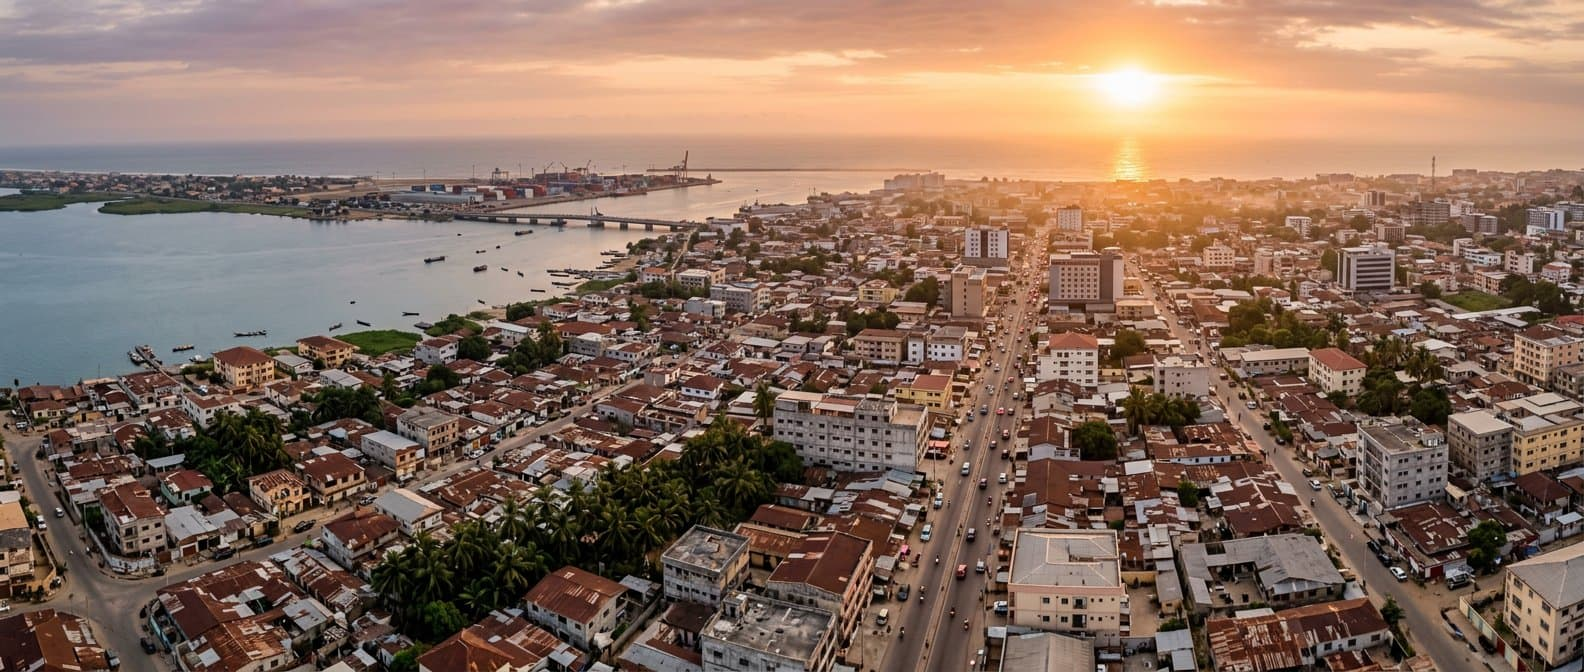
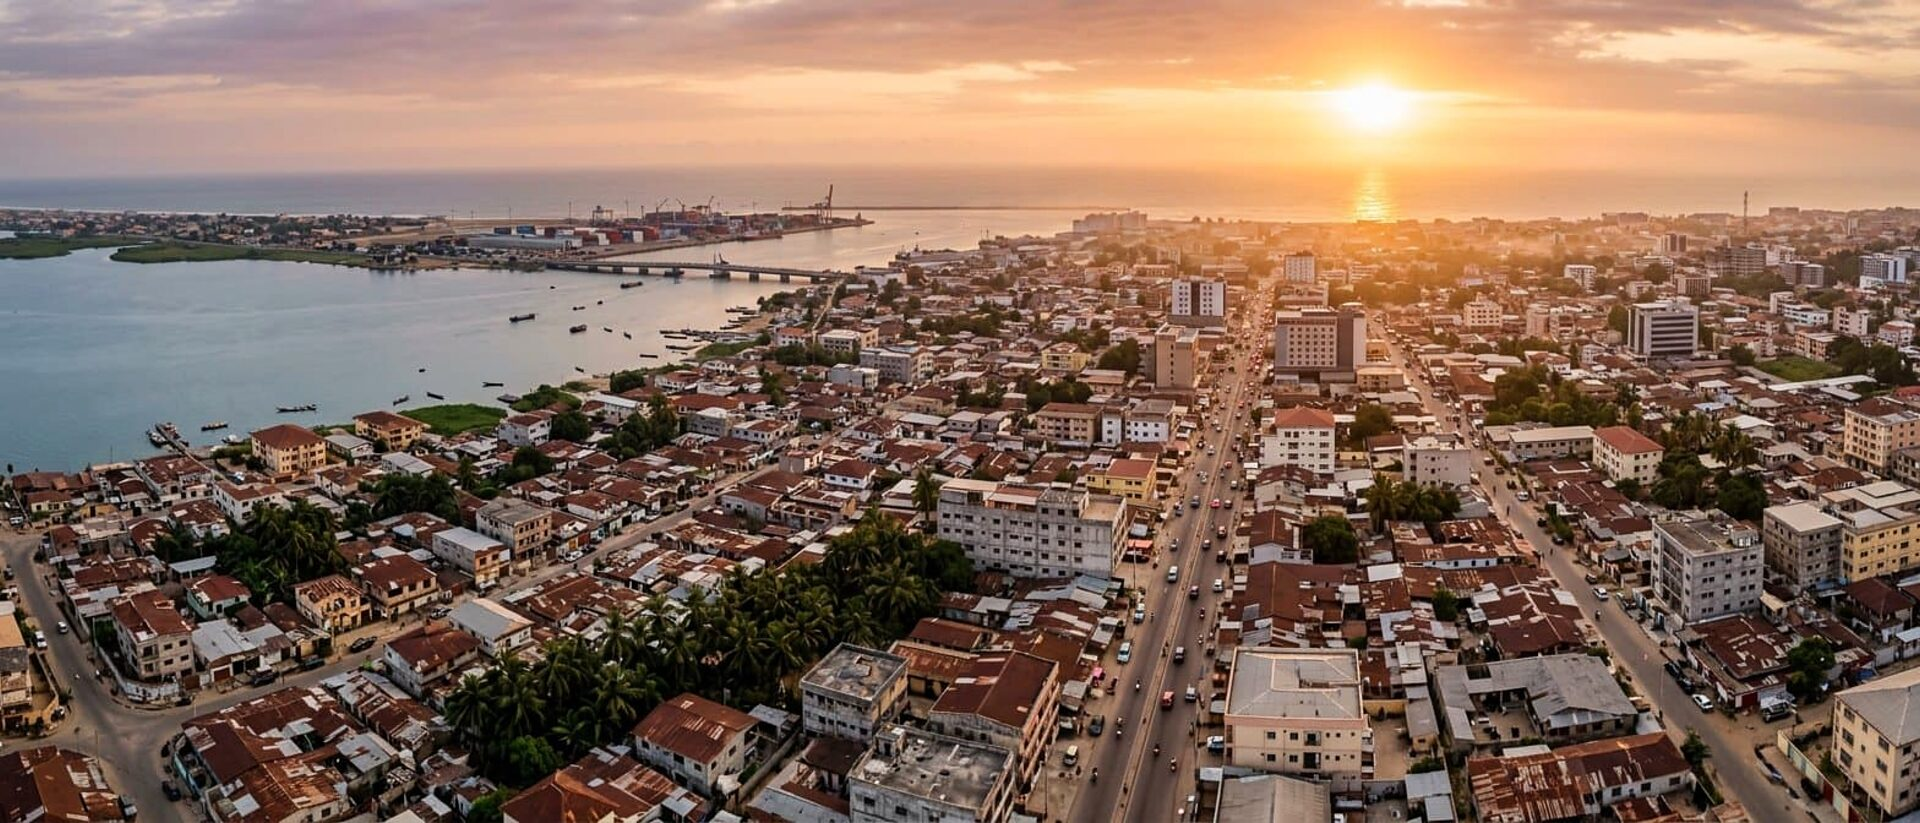
Hero : image nette 1920, couleurs chaudes, machine à écrire ; pastilles services retirées
Image : même photo, rééchantillonnée 1584x672 -> 1920x823 (recette
documentée), accentuation et contraste doux, LQIP régénéré. Sources
pleine résolution absentes : traitement appliqué au dérivé versionné.
Couleurs : voile renforcé (.35 -> .42), reflet terracotta subtil,
seconde ligne du titre en dégradé crème/ambre/terracotta (palette).
Texte : accroche tapée caractère par caractère (3 formulations
achat/location/séjour, pause de lecture, boucle), curseur ambre,
statique si mouvement réduit, hauteur réservée, timers nettoyés.
Services : pastille « 01 — Écosystème HOMERA » supprimée (onglets,
titres et contenus conservés). Verrous motion à jour.

diff --git a/homera/components/home/Hero.tsx b/homera/components/home/Hero.tsx
@@ -2,13 +2,16 @@
 import { useCallback, useState } from "react";
 import { ArrowDown } from "lucide-react";
 import { SearchModule } from "@/components/home/SearchModule";
+import { Typewriter } from "@/components/ui/Typewriter";
 import { useSearch } from "@/components/providers/SearchProvider";
 import { Visual } from "@/components/ui/Visual";
 import { cssVars, useMotionPreferences, useSceneMotion } from "@/lib/motion";
+import { HERO_SUBTITLES } from "@/lib/content";
 import { phase } from "@/lib/motion-math";
-/* Cadrage, titre et recherche d'origine conservés. Le titre et l'accroche sont
-   posés, sans mouvement ; seules deux couches respirent : le visuel dérive à
-   peine, la recherche reste présente plus longtemps. Aucun scroll détourné.
+/* Cadrage, titre et recherche d'origine conservés. Le titre est posé, sans
+   mouvement ; l'accroche se tape à la machine à écrire (statique si mouvement
+   réduit). Seules deux couches respirent : le visuel dérive à peine, la
+   recherche reste présente plus longtemps. Aucun scroll détourné.
 
    La vidéo d'ouverture (4,45 Mo, lecture automatique) est remplacée par le
    visuel qui en était l'affiche : même image à l'arrêt, plus de 4 Mo économisés,
@@ -26,7 +29,7 @@ export function Hero() {
         "--hero-video-y",
         `${(progress * Math.min(5, element.offsetHeight * 0.004)).toFixed(2)}px`,
       );
-      element.style.setProperty("--hero-veil", (0.35 + progress * 0.12).toFixed(4));
+      element.style.setProperty("--hero-veil", (0.42 + progress * 0.12).toFixed(4));
     },
     [compact],
   );
@@ -59,6 +62,10 @@ export function Hero() {
         aria-hidden="true"
         className="absolute inset-0 bg-[radial-gradient(120%_80%_at_50%_10%,transparent_35%,rgba(0,0,0,0.55)_100%)]"
       />{" "}
+      <div
+        aria-hidden="true"
+        className="absolute inset-0 bg-[linear-gradient(115deg,rgba(120,45,20,0.22),transparent_45%,rgba(8,4,2,0.38))]"
+      />{" "}
       <div aria-hidden="true" className="homera-grain-layer absolute inset-0 z-2" />{" "}
       <div
         aria-hidden="true"
@@ -73,13 +80,12 @@ export function Hero() {
                 <h1 className="font-serif text-display-sm sm:text-display-lg lg:text-display-xl text-white max-w-4xl mx-auto lg:-translate-y-[max(7rem,calc(50svh-12.5rem))]">
                   {" "}
                   Un lieu à trouver. <br />{" "}
-                  <span className="homera-accent text-[1.06em]">Un projet à concrétiser.</span>{" "}
+                  <span className="homera-accent bg-linear-to-r from-homera-cream-dark via-homera-amber to-homera-terracotta-light bg-clip-text text-[1.06em] text-transparent">Un projet à concrétiser.</span>{" "}
                 </h1>{" "}
               {/* Accroche posée : aucun mouvement. */}
-                <p className="text-homera-cream-dark text-body-sm sm:text-body max-w-2xl mx-auto font-sans font-normal leading-relaxed lg:-translate-y-[max(7rem,calc(50svh-12.5rem))]">
+                <p className="text-homera-cream-dark text-body-sm sm:text-body max-w-2xl mx-auto font-sans font-normal leading-relaxed min-h-[4.5rem] sm:min-h-[3.5rem] lg:-translate-y-[max(7rem,calc(50svh-12.5rem))]">
                   {" "}
-                  Louez, achetez, vendez ou préparez votre séjour au Bénin. HOMERA vous accompagne
-                  dans votre recherche.{" "}
+                  <Typewriter phrases={HERO_SUBTITLES} />{" "}
                 </p>{" "}
           </div>{" "}
           <div className="homera-reveal -mt-1" data-revealed={entered} style={reveal(400, 2)}>

diff --git a/homera/components/ui/Typewriter.tsx b/homera/components/ui/Typewriter.tsx
@@ -1,0 +1,74 @@
+"use client";
+import { useEffect, useRef, useState } from "react";
+import { useMotionPreferences } from "@/lib/motion";
+/* ==================================================================
+   HOMERA — MACHINE À ÉCRIRE DU HERO
+   ------------------------------------------------------------------
+   L'accroche se tape caractère par caractère, marque une pause de
+   lecture, s'efface puis enchaîne la formulation suivante, en boucle.
+   Mouvement réduit (`prefers-reduced-motion`) : texte statique, aucun
+   timer. La hauteur est réservée par le parent : aucun déplacement de
+   mise en page pendant le cycle. Les lecteurs d'écran reçoivent le
+   texte complet, jamais la frappe en cours.
+   ================================================================== */
+const TYPE_MS = 34;
+const ERASE_MS = 12;
+const READ_MS = 4200;
+const NEXT_MS = 500;
+const START_MS = 600;
+export function Typewriter({ phrases, className = "" }: { phrases: string[]; className?: string }) {
+  const { reduced } = useMotionPreferences();
+  const [text, setText] = useState("");
+  const timers = useRef<number[]>([]);
+  useEffect(() => {
+    if (reduced || phrases.length === 0) {
+      setText(phrases[0] ?? "");
+      return;
+    }
+    let alive = true;
+    let phrase = 0;
+    let char = 0;
+    let erasing = false;
+    const later = (fn: () => void, ms: number) => {
+      timers.current.push(
+        window.setTimeout(() => {
+          if (alive) fn();
+        }, ms),
+      );
+    };
+    const tick = () => {
+      const current = phrases[phrase % phrases.length];
+      if (!erasing) {
+        char += 1;
+        setText(current.slice(0, char));
+        later(tick, char >= current.length ? ((erasing = true), READ_MS) : TYPE_MS);
+      } else {
+        char -= 1;
+        setText(current.slice(0, Math.max(0, char)));
+        if (char <= 0) {
+          erasing = false;
+          phrase += 1;
+          later(tick, NEXT_MS);
+        } else {
+          later(tick, ERASE_MS);
+        }
+      }
+    };
+    later(tick, START_MS);
+    return () => {
+      alive = false;
+      timers.current.forEach((id) => window.clearTimeout(id));
+      timers.current = [];
+    };
+  }, [reduced, phrases]);
+  if (reduced) return <span className={className}>{phrases[0] ?? ""}</span>;
+  return (
+    <span className={className}>
+      <span className="sr-only">{phrases[0] ?? ""}</span>
+      <span aria-hidden="true">
+        {text}
+        <span aria-hidden="true" className="homera-type-caret" />
+      </span>
+    </span>
+  );
+}

diff --git a/homera/components/home/ServicesSection.tsx b/homera/components/home/ServicesSection.tsx
@@ -27,7 +27,6 @@ export function ServicesSection() {
     router.push(slug ? `/services/${slug}` : "/services");
   };
   const active = SERVICES.find((service) => service.id === activeId) ?? SERVICES[0];
-  const ActiveIcon = ICONS[active.icon];
   const { containerRef, handleKeyDown, focusItem } = useRovingFocus<HTMLDivElement>();
   /* --- Le menu peut demander un service précis (ancre #services-xxx) --- */ useEffect(() => {
     const focusService = (id: string) => {
@@ -103,14 +102,6 @@ export function ServicesSection() {
                     )}{" "}
                   </div>
                 ))}{" "}
-                <div className="pointer-events-none absolute inset-x-0 top-0 z-2 flex items-start justify-between p-5">
-                  {" "}
-                  <span className="inline-flex items-center gap-2 rounded-full border border-white/20 bg-black/40 px-3 py-1.5 text-micro font-semibold uppercase tracking-[0.16em] text-white backdrop-blur-md">
-                    {" "}
-                    <ActiveIcon className="h-3.5 w-3.5 text-homera-amber" aria-hidden="true" /> {active.index} —
-                    Écosystème HOMERA{" "}
-                  </span>{" "}
-                </div>{" "}
               </div>{" "}
               <div className="homera-service-stage-copy relative grid p-6 sm:p-7">
                 {" "}

diff --git a/homera/lib/media.generated.ts b/homera/lib/media.generated.ts
@@ -155,9 +155,9 @@ export const MEDIA: Record<string, MediaAsset> = {
   },
   "page-cotonou": {
     "src": "/images/page-cotonou.jpg",
-    "width": 1584,
-    "height": 672,
[1 lines of base64/hex data omitted]
+    "width": 1920,
+    "height": 823,
[1 lines of base64/hex data omitted]
   }
 } as const;
 

diff --git a/homera/app/globals.css b/homera/app/globals.css
@@ -935,6 +935,29 @@ a {
   animation-play-state: paused;
 }
 
+/* Curseur de la machine à écrire du Hero : clignotement franc, pas de transition. */
+.homera-type-caret {
+  display: inline-block;
+  width: 2px;
+  height: 1em;
+  margin-left: 3px;
+  vertical-align: -0.12em;
+  background: var(--homera-amber);
+}
+@keyframes homera-caret-blink {
+  to {
+    visibility: hidden;
+  }
+}
+.homera-hero .homera-type-caret {
+  animation: homera-caret-blink 1.1s steps(2, start) infinite;
+}
+@media (prefers-reduced-motion: reduce) {
+  .homera-hero .homera-type-caret {
+    animation: none;
+  }
+}
+
 /* Trait de progression (protocole, storytelling) */
 .homera-progress-line {
   position: relative;
@@ -1200,7 +1223,7 @@ a {
 
 /* HERO : entrée et sortie vivent sur des couches distinctes. */
 .homera-hero-video { transform: none; }
-.homera-hero-veil { background: rgba(0, 0, 0, .35); }
+.homera-hero-veil { background: rgba(0, 0, 0, .42); }
 .homera-hero[data-motion-ready="true"] .homera-hero-video {
   transform: translate3d(0, var(--hero-video-y, 0px), 0) scale(var(--hero-video-scale, 1));
 }

diff --git a/homera/lib/content.ts b/homera/lib/content.ts
@@ -99,6 +99,14 @@ export const SEARCH_SELECTS = {
   ] satisfies SelectOption[],
 } as const;
 
+/** Accroche du Hero : la première formulation est le message principal,
+    les suivantes alternent à la machine à écrire (achat, location, séjour). */
+export const HERO_SUBTITLES: string[] = [
+  "Louez, achetez, vendez ou préparez votre séjour au Bénin. HOMERA vous accompagne dans votre recherche.",
+  "Achetez un terrain, une villa ou un appartement vérifié, sans intermédiaire douteux.",
+  "Louez au mois ou réservez votre séjour : des biens identifiés et des prix affichés.",
+];
+
 export type SearchFieldName = keyof typeof SEARCH_SELECTS | "budget";
 
 export const SEARCH_FIELD_LABELS: Record<SearchFieldName, string> = {
